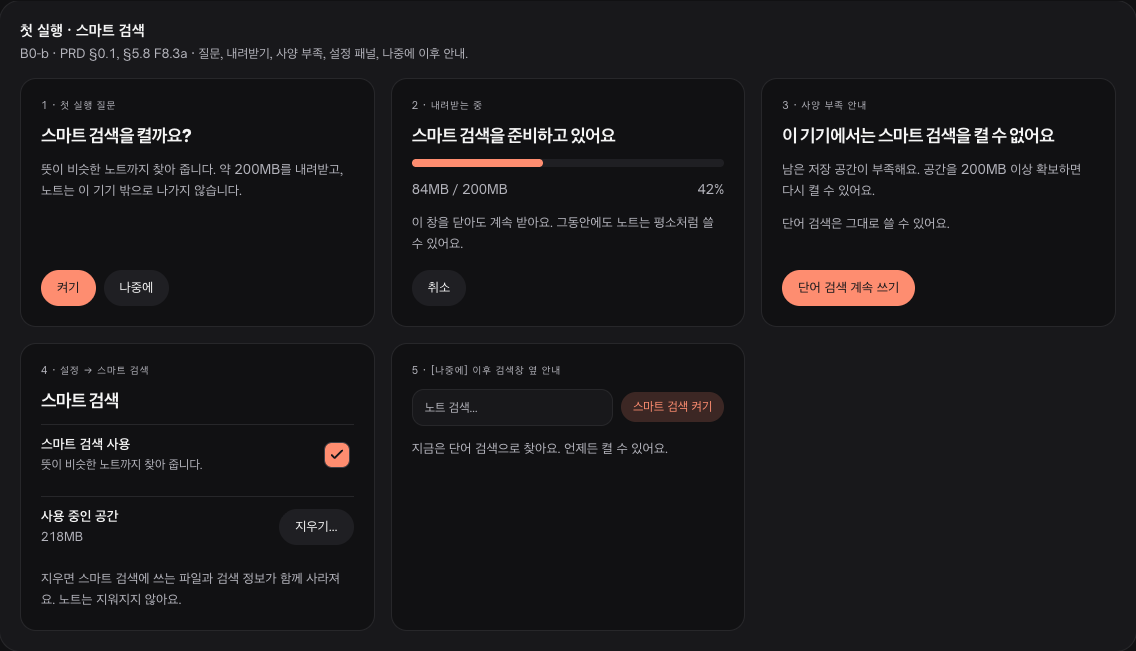
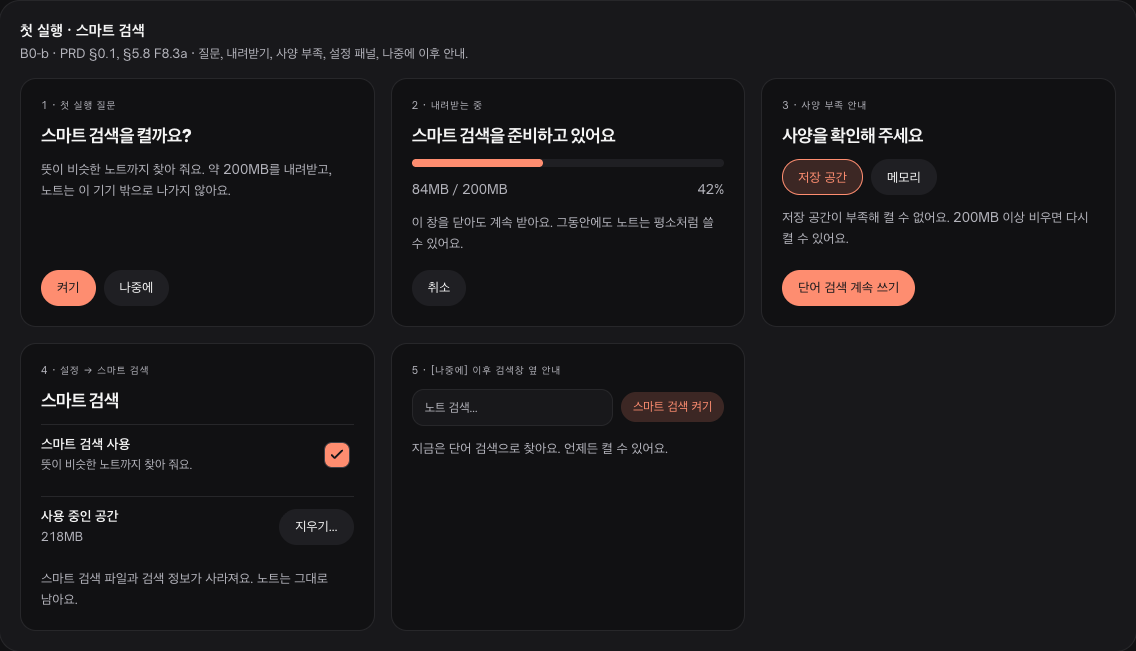
Update B0 first-run design lab copy and captures
Claude-Session: https://claude.ai/code/session_01CVZ4cYbQXTWCGHtQQXEqgd

diff --git a/app/apps/desktop/dev/design-lab/smartSearchScene.tsx b/app/apps/desktop/dev/design-lab/smartSearchScene.tsx
@@ -5,7 +5,7 @@ import { useEffect, useRef, useState } from "react";
 import { SpringCheck } from "../../src/components/kit/SpringCheck";
 import type { Demo } from "./types";
 
-// ponytail: 200MB is a placeholder until B0-a measures the real artifact (PRD F8.1).
+// B0-a 측정값으로 교체.
 const SIZE_MB = 200;
 
 function Panel({ n, title, children }: { n: number; title: string; children: React.ReactNode }) {
@@ -28,6 +28,7 @@ function SmartSearchScene() {
   const [enabled, setEnabled] = useState(true);
   const [cleared, setCleared] = useState(false);
   const [confirmClear, setConfirmClear] = useState(false);
+  const [limitReason, setLimitReason] = useState<"storage" | "memory">("storage");
   const used = cleared ? 0 : SIZE_MB + 18;
   // Keyboard focus follows the swap between 지우기… and its confirm buttons instead of falling to <body>.
   const openRef = useRef<HTMLButtonElement>(null);
@@ -41,7 +42,7 @@ function SmartSearchScene() {
   return <div className="ss-grid">
     <Panel n={1} title="첫 실행 질문">
       <h4>스마트 검색을 켤까요?</h4>
-      <p>뜻이 비슷한 노트까지 찾아 줍니다. 약 {SIZE_MB}MB를 내려받고, 노트는 이 기기 밖으로 나가지 않습니다.</p>
+      <p>뜻이 비슷한 노트까지 찾아 줘요. 약 {SIZE_MB}MB를 내려받고, 노트는 이 기기 밖으로 나가지 않아요.</p>
       <div className="ss-actions"><button type="button" className="ss-btn" data-primary>켜기</button><button type="button" className="ss-btn">나중에</button></div>
     </Panel>
 
@@ -54,21 +55,26 @@ function SmartSearchScene() {
     </Panel>
 
     <Panel n={3} title="사양 부족 안내">
-      <h4>이 기기에서는 스마트 검색을 켤 수 없어요</h4>
-      <p>남은 저장 공간이 부족해요. 공간을 {SIZE_MB}MB 이상 확보하면 다시 켤 수 있어요.</p>
-      <p className="ss-note">단어 검색은 그대로 쓸 수 있어요.</p>
+      <h4>사양을 확인해 주세요</h4>
+      <div className="ss-variants" role="group" aria-label="부족한 사양">
+        <button type="button" className="ss-btn" aria-pressed={limitReason === "storage"} onClick={() => setLimitReason("storage")}>저장 공간</button>
+        <button type="button" className="ss-btn" aria-pressed={limitReason === "memory"} onClick={() => setLimitReason("memory")}>메모리</button>
+      </div>
+      <p>{limitReason === "storage"
+        ? `저장 공간이 부족해 켤 수 없어요. ${SIZE_MB}MB 이상 비우면 다시 켤 수 있어요.`
+        : "이 기기의 메모리가 부족해 켤 수 없어요."}</p>
       <div className="ss-actions"><button type="button" className="ss-btn" data-primary>단어 검색 계속 쓰기</button></div>
     </Panel>
 
     <Panel n={4} title="설정 → 스마트 검색">
       <h4>스마트 검색</h4>
-      <div className="ss-row"><div><strong>스마트 검색 사용</strong><p>뜻이 비슷한 노트까지 찾아 줍니다.</p></div>
+      <div className="ss-row"><div><strong>스마트 검색 사용</strong><p>뜻이 비슷한 노트까지 찾아 줘요.</p></div>
         <SpringCheck label="스마트 검색 사용" checked={enabled} onChange={setEnabled} /></div>
       <div className="ss-row"><div><strong>사용 중인 공간</strong><p role="status">{cleared ? "지웠어요. 다시 켜면 새로 받아요." : `${used}MB`}</p></div>
         {confirmClear ? <div className="ss-actions"><button type="button" className="ss-btn" data-danger onClick={() => { setCleared(true); setEnabled(false); setConfirmClear(false); }}>지우기</button><button type="button" className="ss-btn" ref={cancelRef} onClick={() => setConfirmClear(false)}>그만두기</button></div>
           : <button type="button" className="ss-btn" ref={openRef} disabled={cleared} onClick={() => setConfirmClear(true)}>지우기…</button>}
       </div>
-      <p className="ss-note">{confirmClear ? "지우면 스마트 검색에 쓰는 파일과, 그것으로 만든 검색 정보가 함께 사라져 공간을 돌려받아요. 노트는 그대로예요." : "지우면 스마트 검색에 쓰는 파일과 검색 정보가 함께 사라져요. 노트는 지워지지 않아요."}</p>
+      <p className="ss-note">스마트 검색 파일과 검색 정보가 사라져요. 노트는 그대로 남아요.</p>
     </Panel>
 
     <Panel n={5} title="[나중에] 이후 검색창 옆 안내">

diff --git a/app/apps/desktop/dev/design-lab/lab.css b/app/apps/desktop/dev/design-lab/lab.css
@@ -86,9 +86,11 @@ html, body { background: var(--bg-app); color: var(--text-primary); font-family:
 .ss-actions { display: flex; gap: 8px; flex-wrap: wrap; margin-top: auto; padding-top: 4px; }
 .ss-btn { height: 36px; padding: 0 16px; border: 0; border-radius: var(--radius-pill); background: var(--bg-subtle); color: var(--text-primary); font: inherit; font-size: 13px; cursor: pointer; }
 .ss-btn:hover { background: var(--bg-raised); }
+.ss-variants { display: flex; gap: 8px; }
+.ss-variants .ss-btn[aria-pressed="true"] { background: var(--accent-soft); color: var(--accent); box-shadow: inset 0 0 0 1px var(--accent); }
 .ss-btn[data-primary] { background: var(--accent); color: var(--text-on-accent); }
 .ss-btn[data-primary]:hover { background: var(--accent-hover); }
-.ss-btn[data-danger] { background: var(--danger); color: var(--text-on-accent); }
+.ss-btn[data-danger] { background: #b91c1c; color: #fff; }
 .ss-btn:disabled { opacity: .5; cursor: default; }
 .ss-bar { height: 8px; border-radius: var(--radius-pill); background: var(--bg-subtle); overflow: hidden; }
 .ss-bar span { display: block; height: 100%; border-radius: inherit; background: var(--accent); transition: width var(--t-med) var(--ease); }

diff --git a/docs/reports/B0-FIRST-RUN-MOCK.md b/docs/reports/B0-FIRST-RUN-MOCK.md
@@ -4,26 +4,27 @@
 
 ## 만든 것
 - `app/apps/desktop/dev/design-lab/smartSearchScene.tsx`: 새 장면 `첫 실행 · 스마트 검색`. `scenes.tsx`의 `scenes` 배열 끝에 등록했다.
-- `app/apps/desktop/dev/design-lab/lab.css`: `ss-*` 스타일을 끝에 추가했다. 색·반경·그림자는 `tokens.css` 토큰만 쓴다.
+- `app/apps/desktop/dev/design-lab/lab.css`: `ss-*` 스타일을 끝에 추가했다. 기존 디자인 토큰을 사용하고, 지우기 확인 버튼은 커스텀 accent와 독립된 색을 쓴다.
 - 재사용: 키트의 `SpringCheck`(켜기/끄기), 랩의 `scene-eyebrow`·`scene-search`.
-- 실행: `app/apps/desktop`에서 `pnpm exec vite`, 이어서 `/dev/design-lab/index.html?theme=dark&accent=...`.
+- 실행: `app/apps/desktop`에서 `pnpm exec vite`, 디자인 랩 `/dev/design-lab/index.html?theme=dark&accent=...`.
 
 ## 보여 주는 상태
-1. 첫 실행 질문: "스마트 검색을 켤까요? …" [켜기] [나중에].
-2. 내려받는 중: 진행 막대(42%), 받은 용량, [취소]. 받는 동안에도 노트를 쓸 수 있다고 알린다.
-3. 사양 부족: 이유 한 문장(저장 공간 부족)과 "단어 검색 계속 쓰기".
-4. 설정 → 스마트 검색: 켜기/끄기, 사용 중인 공간, [지우기…]. 누르면 "스마트 검색에 쓰는 파일과 검색 정보가 함께 사라져 공간을 돌려받고, 노트는 그대로"라는 설명과 확인 단계가 나온다. 지우면 끄기 상태로 바뀐다(클릭해 볼 수 있음).
-5. [나중에] 이후: 검색창 옆의 작은 "스마트 검색 켜기" 칩과 한 줄 안내.
+1. 첫 실행 질문: 해요체 안내, [켜기] [나중에]. 노트는 기기 밖으로 나가지 않는다고 알린다.
+2. 내려받는 중: 진행 막대(42%), 받은 용량, [취소]. 받는 동안에도 노트를 쓸 수 있다.
+3. 사양 부족: 저장 공간과 메모리 사유를 버튼으로 전환한다. 저장 공간 안내는 “저장 공간이 부족해 켤 수 없어요. 200MB 이상 비우면 다시 켤 수 있어요.”이며, 메모리 안내는 “이 기기의 메모리가 부족해 켤 수 없어요.”다. 두 경우 모두 [단어 검색 계속 쓰기]를 제공한다.
+4. 설정 → 스마트 검색: 켜기/끄기, 사용 중인 공간, [지우기…]. 확인 단계에서는 [지우기]와 [그만두기]가 나오며 “스마트 검색 파일과 검색 정보가 사라져요. 노트는 그대로 남아요.”라고 안내한다. 지우면 끄기 상태로 바뀐다.
+5. [나중에] 이후: 검색창 옆의 “스마트 검색 켜기” 칩과 한 줄 안내.
 
 ## 화면 확인
-- `docs/assets/ui/b0-first-run-light.png`, `b0-first-run-dark.png`: 라이트·다크 각 5상태.
-- `docs/assets/ui/b0-first-run-dark-coral-reduced-motion.png`: 다크 + 커스텀 accent(`#dc6e52`) + `prefers-reduced-motion: reduce`. 레이아웃·대비가 유지된다.
-- 진행 막대의 폭 전환은 reduced-motion에서 꺼진다. `SpringCheck`는 키트가 이미 처리한다.
-- `pnpm lint`(오류 0, 경고 45건은 기존 것, 새 파일 경고 없음), `tsc --noEmit` 통과. 기본 `tsconfig.json`은 `src`만 포함하므로, `dev/design-lab`을 포함한 임시 설정으로도 따로 확인해 오류가 없었다.
+- `docs/assets/ui/b0-first-run-light.png`, `b0-first-run-dark.png`: 라이트·다크 기본 장면.
+- `docs/assets/ui/b0-first-run-dark-coral-reduced-motion.png`: 다크 + 커스텀 accent(`#dc6e52`) + `prefers-reduced-motion: reduce`.
+- `docs/assets/ui/b0-first-run-clear-confirmation.png`: 지우기 확인 단계.
+- `docs/assets/ui/b0-first-run-memory-limit.png`: 메모리 부족 변형.
+- 지우기 버튼은 랩 CSS에서 `#b91c1c` 배경과 `#fff` 글자를 사용한다. 흰색 대비는 6.47:1이며 라이트·다크에서 같다. tokens.css에 danger 전용 글자 토큰은 없다. **앱 구현 시 `--text-on-danger` 토큰 필요.**
+- 진행 막대 폭 전환은 reduced-motion에서 꺼진다. `SpringCheck`는 키트가 처리한다.
 
-## 가정
-- 용량 "약 ○○MB"는 **200MB로 임시 표기**했다. 실제 값은 B0-a 측정 뒤 바꾼다(PRD F8.1: 191MB는 참고 수치일 뿐).
-- 문구는 "스마트 검색"만 쓰고 임베딩·모델·GGUF는 화면에 쓰지 않았다. 지우기 설명의 "스마트 검색에 쓰는 파일"이 PRD의 "모델 파일"에 해당한다.
-- 사양 부족의 예시 이유는 저장 공간이다. 메모리 부족일 때는 이유 문장만 바꾼다("메모리가 부족해요").
+## 가정 및 후속
+- 용량은 파일 상단의 `SIZE_MB = 200`으로 모았다. **B0-a 측정값으로 교체**해야 한다(PRD F8.1: 191MB는 참고 수치일 뿐).
+- 문구는 화면 전체 해요체로 통일했고 임베딩·모델·GGUF는 화면에 쓰지 않았다.
 - 취소·이어받기 정책, 실제 진행 동기화, 상태 저장은 이 시안 범위 밖이다. 상태 패널은 한 화면에 나란히 놓은 정적 예시다.
-- 랩은 영어 장면이 기본이지만 이 장면은 제품 문구 검증을 위해 한국어로 썼다.
+- 앱 본체에 적용할 때 공용 버튼 및 지운 뒤 포커스 목적지를 정해야 한다.
